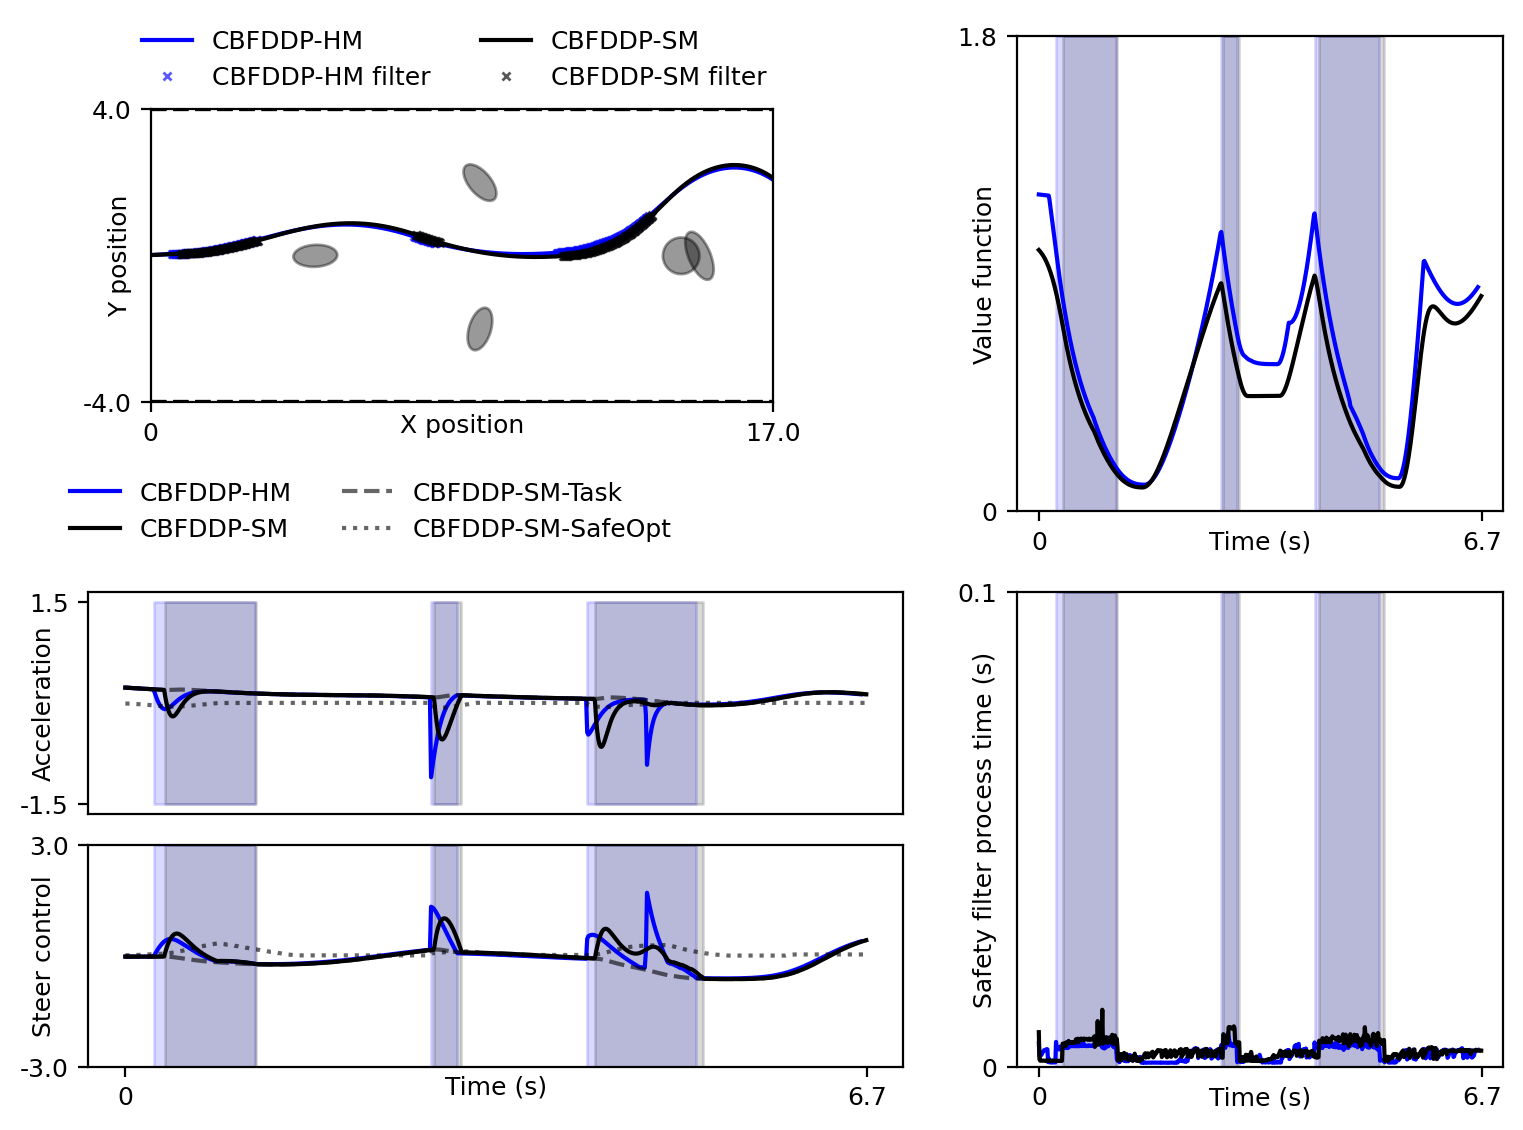
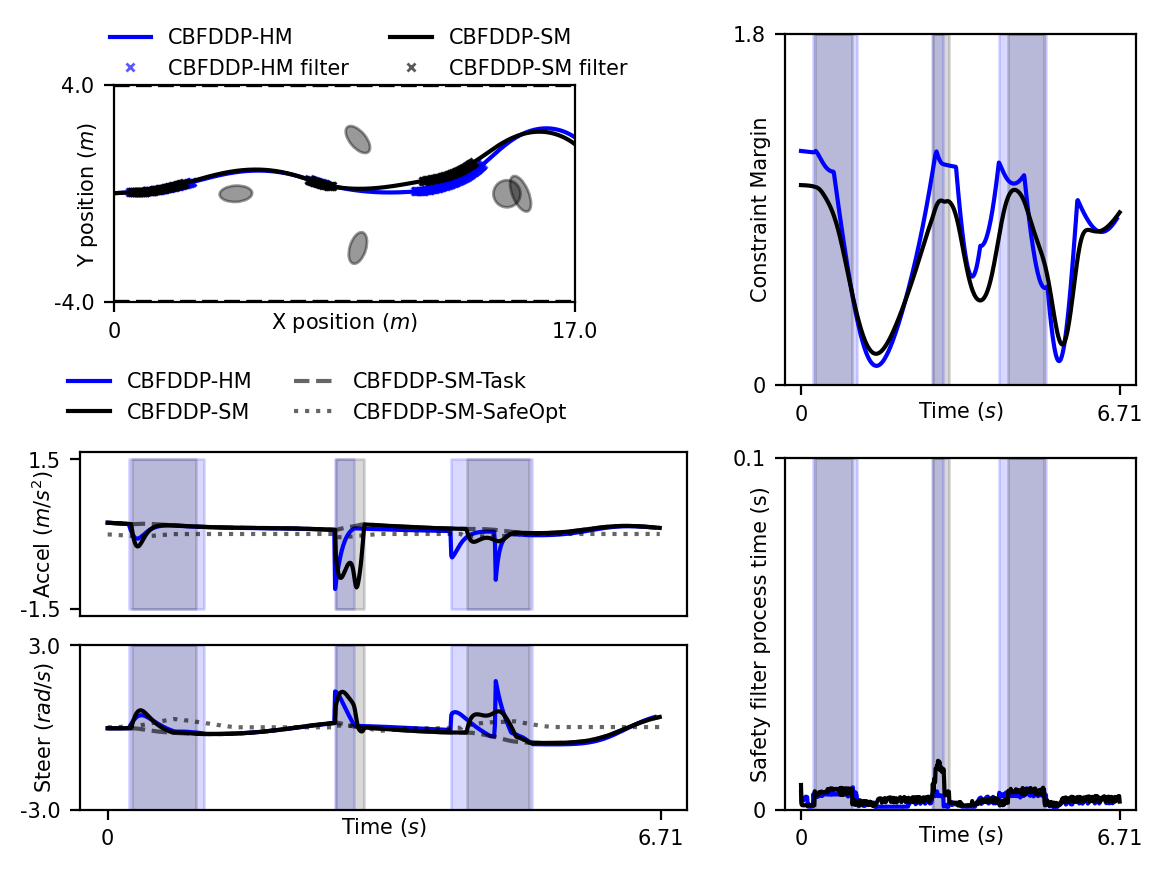
resize to latex

Changed region(s): [[0.0, 0.0311, 0.9905, 0.9942]]

diff --git a/summary/utils.py b/summary/utils.py
@@ -405,7 +405,7 @@ def make_bicycle_comparison_report(prefix="./exps_may/ilqr/bic5D/yaw_testing/", 
 
     hide_label = False
 
-    legend_fontsize = 9
+    legend_fontsize = 7.5
     road_bounds = [road_boundary]
     yaw_consts = [None]
     label_yc = [None]
@@ -520,7 +520,7 @@ def make_bicycle_comparison_report(prefix="./exps_may/ilqr/bic5D/yaw_testing/", 
         c_obs = 'k'
         env = CarSingle5DEnv(config_env, config_agent, config_cost)
 
-        fig = plt.figure(layout='constrained', figsize=(7.7, 6.5))
+        fig = plt.figure(layout='constrained', figsize=(5.7, 4.2))
         subfigs = fig.subfigures(1, 2, wspace=0.05, width_ratios=[1.6, 1])
         subfigs_col1 = subfigs[0].subfigures(2, 1, height_ratios=[1, 1.5])
         ax = subfigs_col1[0].subplots(1, 1)
@@ -589,8 +589,8 @@ def make_bicycle_comparison_report(prefix="./exps_may/ilqr/bic5D/yaw_testing/", 
             ax.plot(np.linspace(0, env.visual_extent[1], 100), np.array([rblist[idx]]*100), 'k--')
             ax.plot(np.linspace(0, env.visual_extent[1], 100), np.array([-1*rblist[idx]]*100), 'k--')
             if not hide_label:
-                ax.set_xlabel('X position', fontsize=legend_fontsize)
-                ax.set_ylabel('Y position', fontsize=legend_fontsize)
+                ax.set_xlabel('X position $(m)$', fontsize=legend_fontsize)
+                ax.set_ylabel('Y position $(m)$', fontsize=legend_fontsize)
             ax.yaxis.set_label_coords(-0.03, 0.5)
             ax.xaxis.set_label_coords(0.5, -0.04)
 
@@ -634,7 +634,7 @@ def make_bicycle_comparison_report(prefix="./exps_may/ilqr/bic5D/yaw_testing/", 
 
             if not hide_label:
                 #axes[0].set_xlabel('Time index', fontsize=legend_fontsize)
-                axes[0].set_ylabel('Acceleration', fontsize=legend_fontsize)
+                axes[0].set_ylabel(f'Accel $(m/s^2)$', fontsize=legend_fontsize)
             #axes[0].grid(True)
             axes[0].set_xticks(ticks=[], labels=[], fontsize=5, labelsize=5)
             axes[0].set_yticks(ticks=[action_space[0, 0], action_space[0, 1]], 
@@ -649,8 +649,8 @@ def make_bicycle_comparison_report(prefix="./exps_may/ilqr/bic5D/yaw_testing/", 
                 axes[0].set_yticklabels([])
 
             if not hide_label:
-                axes[1].set_xlabel('Time (s)', fontsize=legend_fontsize)
-                axes[1].set_ylabel('Steer control', fontsize=legend_fontsize)
+                axes[1].set_xlabel('Time $(s)$', fontsize=legend_fontsize)
+                axes[1].set_ylabel(f'Steer $(rad/s)$', fontsize=legend_fontsize)
             #axes[1].grid(True)
             axes[1].set_xticks(ticks=[0, round(dt*maxsteps, 2)], labels=[0, round(dt*maxsteps, 2)], fontsize=legend_fontsize)
             axes[1].set_yticks(ticks=[action_space[1, 0], action_space[1, 1]], 
@@ -695,7 +695,7 @@ def make_bicycle_comparison_report(prefix="./exps_may/ilqr/bic5D/yaw_testing/", 
     ax_v.set_ylim([0.0, max_value])
     ax_v.yaxis.set_label_coords(-0.04, 0.5)
     ax_v.xaxis.set_label_coords(0.5, -0.04)
-    ax_v.set_xlabel('Time (s)', 
+    ax_v.set_xlabel('Time $(s)$', 
                         fontsize=legend_fontsize)
     ax_v.set_ylabel('Constraint Margin', 
                         fontsize=legend_fontsize)
@@ -773,7 +773,7 @@ def make_bicycle_comparison_report(prefix="./exps_may/ilqr/bic5D/yaw_testing/", 
     ax_st.set_ylim([0.0, max_value])
     ax_st.yaxis.set_label_coords(-0.04, 0.5)
     ax_st.xaxis.set_label_coords(0.5, -0.04)
-    ax_st.set_xlabel('Time (s)', 
+    ax_st.set_xlabel('Time $(s)$', 
                         fontsize=legend_fontsize)
     ax_st.set_ylabel('Safety filter process time (s)', 
                         fontsize=legend_fontsize)
@@ -810,7 +810,7 @@ def make_pvtol_comparison_report(prefix="./exps_may/ilqr/bic5D/yaw_testing/", pl
 
     hide_label = False
 
-    legend_fontsize = 8
+    legend_fontsize = 7.0
 
     suffixlist = []
     labellist = []
@@ -902,7 +902,7 @@ def make_pvtol_comparison_report(prefix="./exps_may/ilqr/bic5D/yaw_testing/", pl
         c_obs = 'k'
         env = Pvtol6DEnv(config_env, config_agent, config_cost)
 
-        fig = plt.figure(layout='constrained', figsize=(7.5, 5.8))
+        fig = plt.figure(layout='constrained', figsize=(5.7, 4.2))
         subfigs = fig.subfigures(1, 2, wspace=0.05, width_ratios=[1.6, 1])
         subfigs_col1 = subfigs[0].subfigures(2, 1, height_ratios=[1, 1.5])
         ax = subfigs_col1[0].subplots(1, 1)
@@ -969,8 +969,8 @@ def make_pvtol_comparison_report(prefix="./exps_may/ilqr/bic5D/yaw_testing/", pl
                               fontsize=legend_fontsize)
 
             if not hide_label:
-                ax.set_xlabel('X position', fontsize=legend_fontsize)
-                ax.set_ylabel('Y position', fontsize=legend_fontsize)
+                ax.set_xlabel('X position $(m)$', fontsize=legend_fontsize)
+                ax.set_ylabel('Y position $(m)$', fontsize=legend_fontsize)
             ax.yaxis.set_label_coords(-0.03, 0.5)
             ax.xaxis.set_label_coords(0.5, -0.04)
 
@@ -1014,7 +1014,7 @@ def make_pvtol_comparison_report(prefix="./exps_may/ilqr/bic5D/yaw_testing/", pl
 
             if not hide_label:
                 #axes[0].set_xlabel('Time index', fontsize=legend_fontsize)
-                axes[0].set_ylabel('Thrust X', fontsize=legend_fontsize)
+                axes[0].set_ylabel('Thrust X $(N)$', fontsize=legend_fontsize)
             #axes[0].grid(True)
             axes[0].set_xticks(ticks=[], labels=[], fontsize=5, labelsize=5)
             axes[0].set_yticks(ticks=[action_space[0, 0], action_space[0, 1]], 
@@ -1029,8 +1029,8 @@ def make_pvtol_comparison_report(prefix="./exps_may/ilqr/bic5D/yaw_testing/", pl
                 axes[0].set_yticklabels([])
 
             if not hide_label:
-                axes[1].set_xlabel('Time (s)', fontsize=legend_fontsize)
-                axes[1].set_ylabel('Thrust Y', fontsize=legend_fontsize)
+                axes[1].set_xlabel('Time $(s)$', fontsize=legend_fontsize)
+                axes[1].set_ylabel('Thrust Y $(N)$', fontsize=legend_fontsize)
             #axes[1].grid(True)
             axes[1].set_xticks(ticks=[0, round(dt*maxsteps, 2)], labels=[0, round(dt*maxsteps, 2)], fontsize=legend_fontsize)
             axes[1].set_yticks(ticks=[30., 45.], 
@@ -1075,7 +1075,7 @@ def make_pvtol_comparison_report(prefix="./exps_may/ilqr/bic5D/yaw_testing/", pl
     ax_v.set_ylim([0.0, max_value])
     ax_v.yaxis.set_label_coords(-0.04, 0.5)
     ax_v.xaxis.set_label_coords(0.5, -0.04)
-    ax_v.set_xlabel('Time (s)', 
+    ax_v.set_xlabel('Time $(s)$', 
                         fontsize=legend_fontsize)
     ax_v.set_ylabel('Constraint Margin', 
                         fontsize=legend_fontsize)
@@ -1153,9 +1153,9 @@ def make_pvtol_comparison_report(prefix="./exps_may/ilqr/bic5D/yaw_testing/", pl
     ax_st.set_ylim([0.0, max_value])
     ax_st.yaxis.set_label_coords(-0.04, 0.5)
     ax_st.xaxis.set_label_coords(0.5, -0.04)
-    ax_st.set_xlabel('Time (s)', 
+    ax_st.set_xlabel('Time $(s)$', 
                         fontsize=legend_fontsize)
-    ax_st.set_ylabel('Safety filter process time (s)', 
+    ax_st.set_ylabel('Safety filter process time $(s)$', 
                         fontsize=legend_fontsize)
     # ax_st.legend(framealpha=0, fontsize=legend_fontsize, loc='upper left', 
     #                        ncol=3, bbox_to_anchor=(0.05, 1.1), fancybox=False, shadow=False)

diff --git a/evaluate_soft_ddpcbf.py b/evaluate_soft_ddpcbf.py
@@ -324,7 +324,7 @@ if __name__ == "__main__":
 
     args = parser.parse_args()
 
-    filters=['SoftLR', 'CBF', 'SoftCBF']
+    filters=['CBF', 'SoftCBF']
     
     out_folder, plot_tag, config_agent = None, None, None
     for filter_type in filters:
